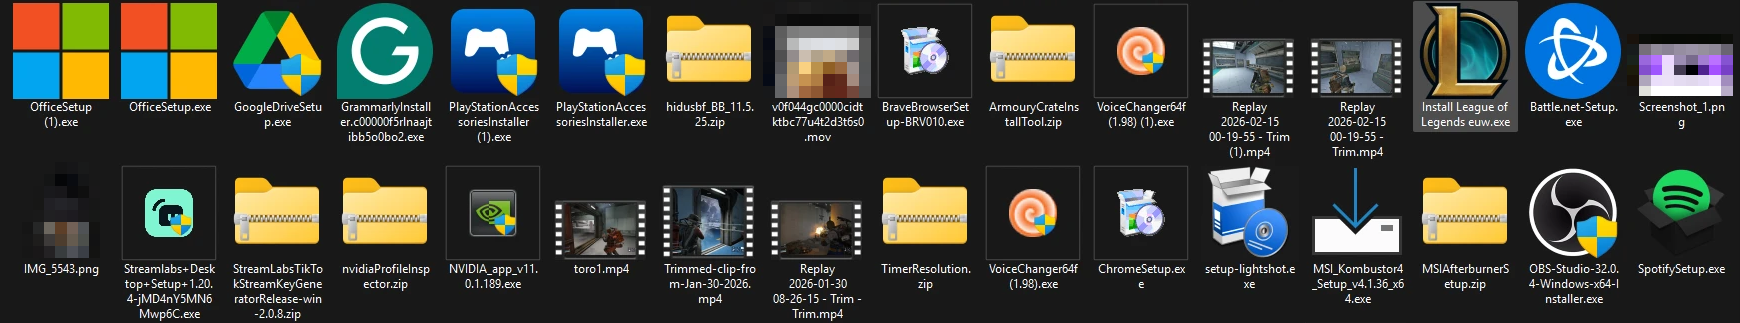
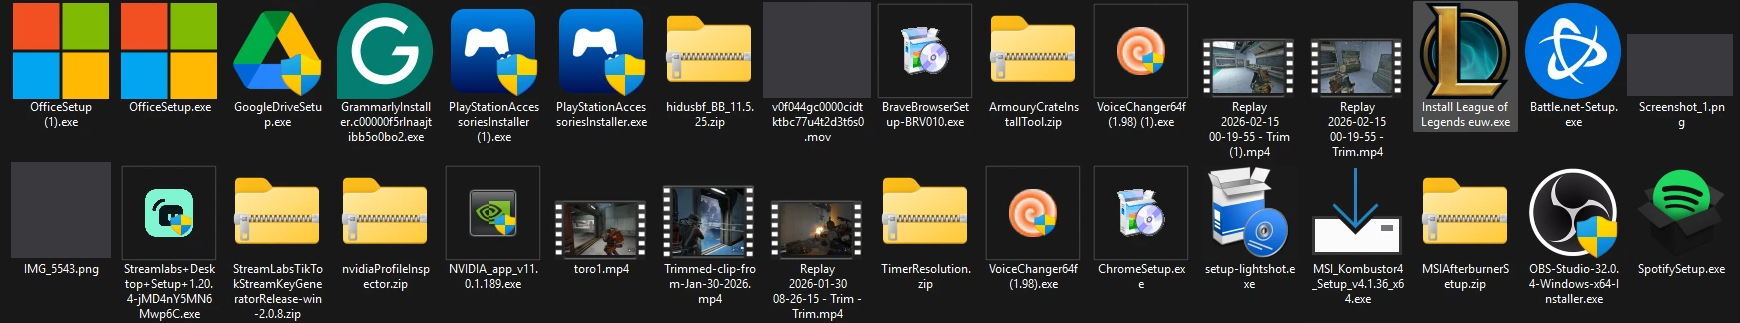
README: grey out hidden thumbnails instead of pixelating them
The pixelated thumbnail in the before screenshot averaged out to skin-like
colours and looked odd. Replace the three hidden thumbnails with flat
neutral grey blocks, and update the caption to match.

Changed region(s): [[0.4345, 0.0, 0.5276, 0.3096], [0.931, 0.0929, 1.0, 0.3096], [0.0, 0.4954, 0.0621, 0.805]]

diff --git a/README.md b/README.md
@@ -15,7 +15,7 @@ Downloads/
 ## Before and after
 
 A real Downloads folder before running `apply`. This is a slice of 376 loose
-items (private files are cropped out, and a few thumbnails are pixelated):
+items (private files are cropped out, and a few thumbnails are greyed out):
 
 ![A slice of a messy Downloads folder: installers, zip files, game clips and screenshots all mixed together](docs/images/before.png)
 
